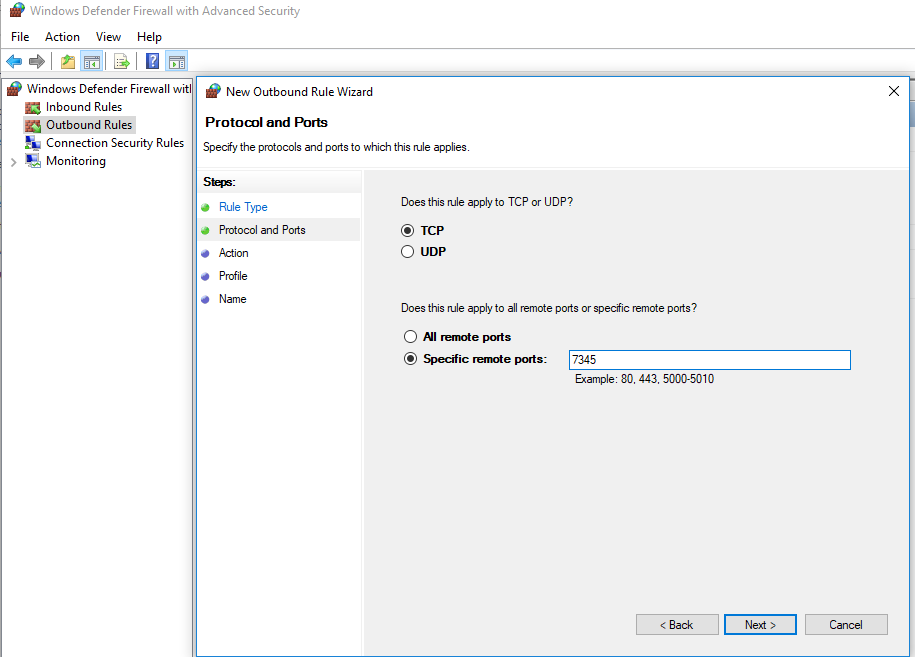
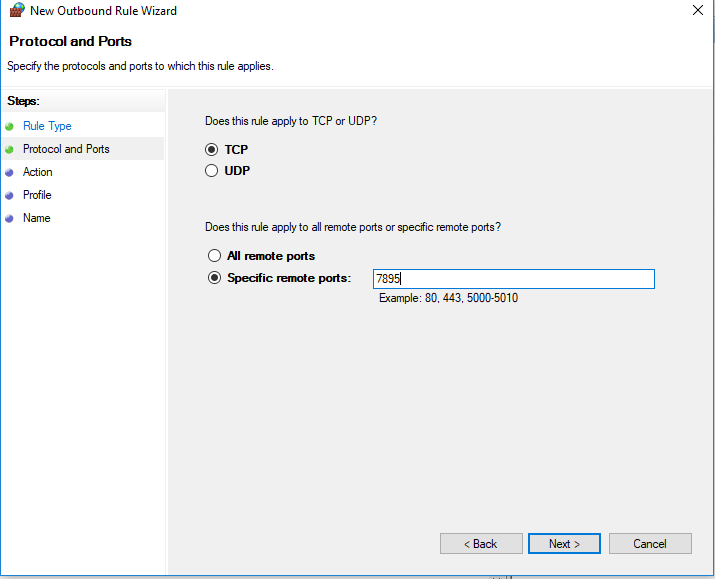
guide updated

Changed region(s): [[0.0, 0.0, 1.0, 1.0], [0.2769, 0.4352, 0.9231, 0.5907], [0.4308, 0.2798, 0.6154, 0.342]]

diff --git a/docs/source/minningguide.rst b/docs/source/minningguide.rst
@@ -201,7 +201,7 @@ And add Outbound rules by following these steps:
 .. image:: _static/Step1Outbound.png
    :align: center
 
-**Step 2:** Specify the port address of the RecordsKeeper Blockchain to which you are allowing access, for Testnet type 8379 and to open ports for Mainnet type 7345 in the textbox and then click on Next:
+**Step 2:** Specify the port address of the RecordsKeeper Blockchain to which you are allowing access, for Testnet type 8379 and to open ports for Mainnet type 7895 in the textbox and then click on Next:
 
 .. image:: _static/Step2Outbound.png
    :align: center
